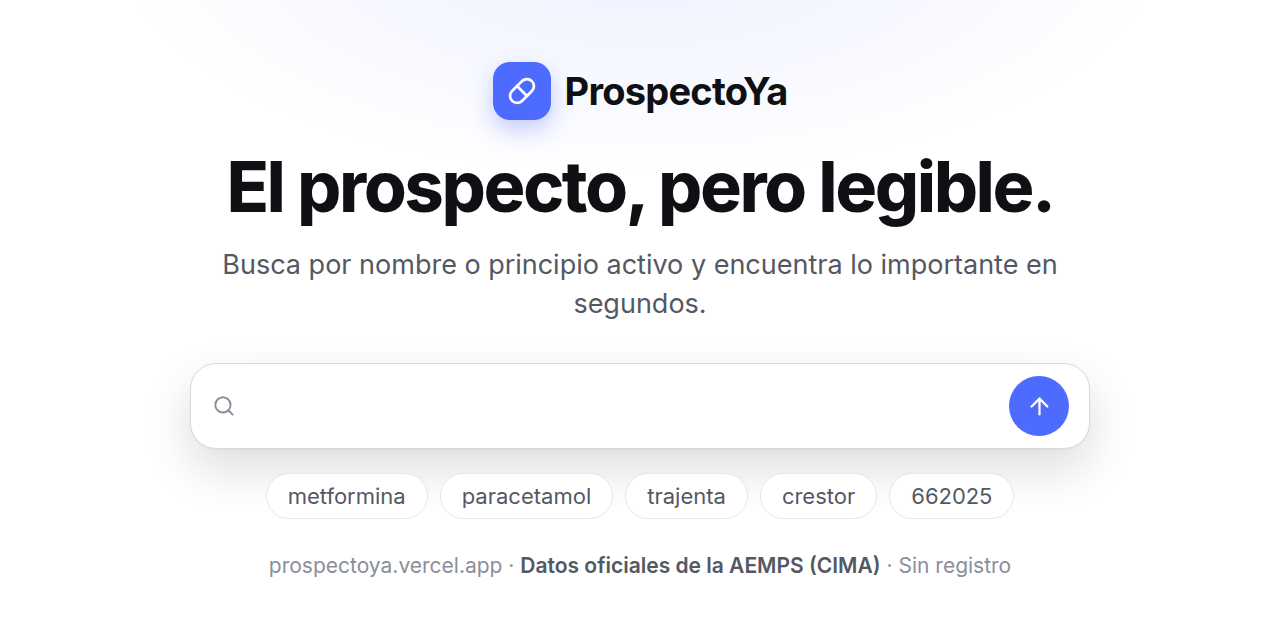
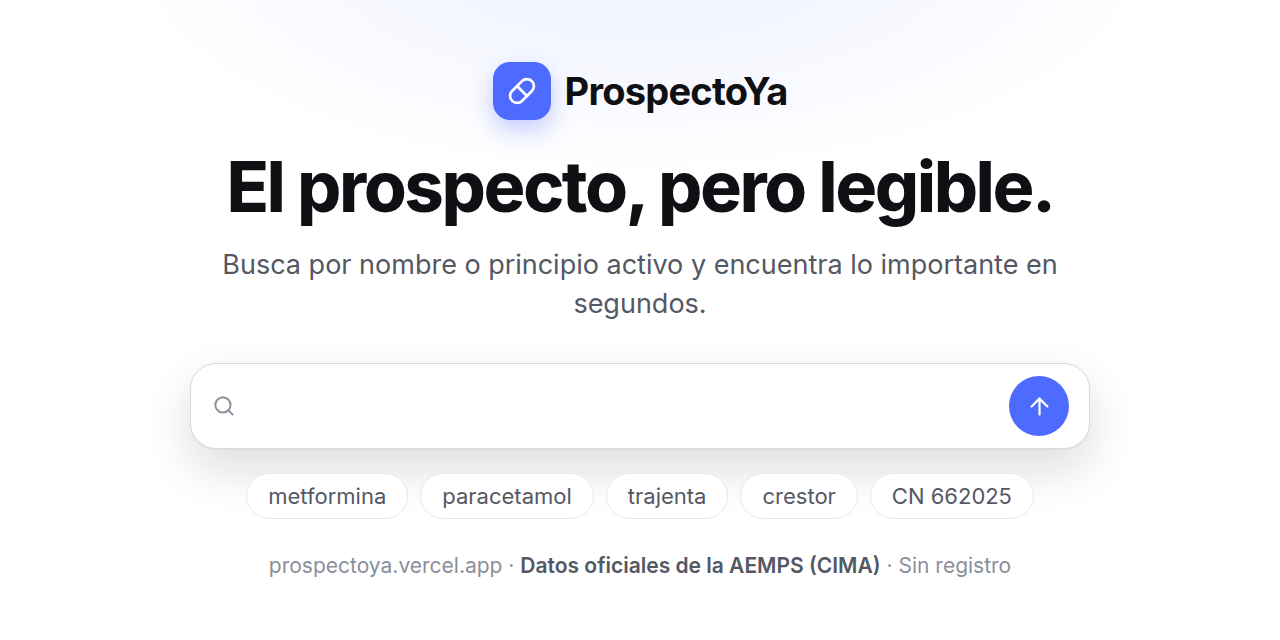
feat(buscador): el chip del código nacional lleva el prefijo «CN»
Visto junto a los demás chips de ejemplo (nombres de medicamento), el número
suelto (662025) se leía como un resto de placeholder más que como un ejemplo
de búsqueda. Ahora el chip muestra "CN 662025"; data-ejemplo se queda igual
(solo los dígitos, que es lo que de verdad busca consultarSegunTermino()), así
que el comportamiento no cambia, solo la etiqueta. Revisa la decisión de
v0.5.0 ("el chip... enseña sólo el número").

Se rehacen social-preview.png y captura-inicio.png con el chip nuevo, y sube
VERSION en sw.js (v11 -> v12) porque index.html y styles.css (el commit
anterior, del halo) tocan la cáscara. test-html.js se ajusta: la comparación
de chips entre index.html y la maqueta del social preview pasa a comparar el
texto visible (antes comparaba data-ejemplo, que ahora difiere a propósito
para este chip), y se añade un caso que fija que data-ejemplo sigue siendo
solo el número.

Suite completa en verde (332 comprobaciones).

diff --git a/tests/test-html.js b/tests/test-html.js
@@ -102,9 +102,14 @@ console.log("--- index.html (campo de búsqueda y ejemplos) ---");
     valores.join(",")
   );
   comprobar(
-    "el ejemplo del código nacional es el número a secas (sin «CN»)",
-    (ejemplos[4] ? ejemplos[4].textContent.trim() : "") === "662025",
+    "el ejemplo del código nacional lleva el prefijo «CN» delante del número",
+    (ejemplos[4] ? ejemplos[4].textContent.trim() : "") === "CN 662025",
     ejemplos[4] ? ejemplos[4].textContent.trim() : "(no está)"
+  );
+  comprobar(
+    "pero data-ejemplo se queda solo con los dígitos (lo que de verdad se busca)",
+    ejemplos[4] && ejemplos[4].dataset.ejemplo === "662025",
+    ejemplos[4] ? ejemplos[4].dataset.ejemplo : "(no está)"
   );
   comprobar("la ayuda sigue accesible desde el buscador (barra de arriba)", Boolean(doc.querySelector('.topbar a[href="ayuda.html"]')));
   // El buscador va sin pie a propósito (interfaz limpia): el aviso sanitario está
@@ -143,7 +148,10 @@ console.log("--- social preview (tarjeta 1280x640) ---");
   const maqueta = new JSDOM(leer("tests/maqueta-social-preview.html")).window.document;
   const png = tamanoPng(path.join(RAIZ, "social-preview.png"));
   const texto = (doc, selector) => ((doc.querySelector(selector) || {}).textContent || "").replace(/\s+/g, " ").trim();
-  const chipsPagina = [...pagina.querySelectorAll("#search-examples .js-ejemplo")].map((b) => b.dataset.ejemplo).join(",");
+  // El texto que se VE (no data-ejemplo, que es el valor que se busca: para el
+  // chip del código nacional ya no coinciden a propósito, ver «lleva el
+  // prefijo "CN"» más arriba).
+  const chipsPagina = [...pagina.querySelectorAll("#search-examples .js-ejemplo")].map((b) => b.textContent.trim()).join(",");
   const chipsMaqueta = [...maqueta.querySelectorAll(".chips li")].map((li) => li.textContent.trim()).join(",");
 
   comprobar(

diff --git a/index.html b/index.html
@@ -167,11 +167,14 @@
         <button type="button" class="chip js-ejemplo" data-ejemplo="trajenta">trajenta</button>
         <button type="button" class="chip js-ejemplo" data-ejemplo="crestor">crestor</button>
         <!-- Ejemplo de búsqueda por código nacional (6 dígitos): el chip lleva el
-             número a secas (la ayuda explica que es un CN).
+             prefijo «CN» delante del número para no confundirse con los demás
+             chips (data-ejemplo se queda solo con los dígitos: es lo que se
+             busca, y un «CN 662025» ahí no encajaría con el código nacional
+             de 6 dígitos que espera consultarSegunTermino()).
              VERIFICADO CONTRA LA API REAL (20/09/2026): los cinco ejemplos
              devuelven resultados (metformina 181, paracetamol 195, trajenta 1,
              crestor 18 y el CN 662025, 1 envase). -->
-        <button type="button" class="chip js-ejemplo" data-ejemplo="662025">662025</button>
+        <button type="button" class="chip js-ejemplo" data-ejemplo="662025">CN 662025</button>
       </div>
     </section>
 

diff --git a/ayuda.html b/ayuda.html
@@ -111,7 +111,7 @@
       <p>
         Escribe en el buscador y pulsa <kbd class="kbd">Enter</kbd> (o el botón de la flecha).
         También puedes tocar cualquiera de los ejemplos de debajo, como <em>paracetamol</em>
-        o <em>662025</em> (que es un código nacional).
+        o <em>CN 662025</em> (que es un código nacional).
       </p>
 
       <h3>Por nombre o principio activo</h3>

diff --git a/tests/maqueta-social-preview.html b/tests/maqueta-social-preview.html
@@ -199,7 +199,7 @@
       <li>paracetamol</li>
       <li>trajenta</li>
       <li>crestor</li>
-      <li>662025</li>
+      <li>CN 662025</li>
     </ul>
 
     <p class="cierre">prospectoya.vercel.app · <strong>Datos oficiales de la AEMPS (CIMA)</strong> · Sin registro</p>

diff --git a/sw.js b/sw.js
@@ -22,7 +22,7 @@
  * anteriores.
  */
 
-const VERSION = "v11";
+const VERSION = "v12";
 const CACHE = `prospectoya-${VERSION}`;
 
 /** La cáscara: todo lo que hace falta para abrir la web sin conexión. */

diff --git a/README.md b/README.md
@@ -2,7 +2,7 @@
 
 <!-- Captura del sitio real (1200x798). Va en la raíz del repo, con ruta
      relativa, para que se vea también al clonar o hacer fork. -->
-<img width="1200" height="798" alt="Pantalla de inicio de ProspectoYa: el buscador con el titular «El prospecto, pero legible» y los chips de ejemplo (metformina, paracetamol, trajenta, crestor, 662025)" src="captura-inicio.png">
+<img width="1200" height="798" alt="Pantalla de inicio de ProspectoYa: el buscador con el titular «El prospecto, pero legible» y los chips de ejemplo (metformina, paracetamol, trajenta, crestor, CN 662025)" src="captura-inicio.png">
 
 Web estática (HTML/CSS/JS vanilla, sin frameworks, sin build) que consulta
 la API pública de CIMA (AEMPS) para mejorar la experiencia de buscar y leer
@@ -58,8 +58,10 @@ Documentación oficial completa (PDF): `CIMA-REST-API_1_19.pdf` (AEMPS).
 - **El campo no lleva texto dentro** (sin placeholder, a propósito): se explica
   con la lupa de la izquierda y con su etiqueta accesible, así que no hace falta
   —y en el móvil se cortaba a medias—. Los cinco chips de ejemplo son
-  *metformina*, *paracetamol*, *trajenta*, *crestor* y *662025* (el código
-  nacional, con el número a secas); los cinco devuelven resultados en la API.
+  *metformina*, *paracetamol*, *trajenta*, *crestor* y *CN 662025* (el prefijo
+  identifica el código nacional dentro del propio chip; `data-ejemplo` se
+  queda solo con los dígitos, que es lo que de verdad se busca); los cinco
+  devuelven resultados en la API.
 - Al escribir 3 letras o más se consulta `GET /medicamentos` con un *debounce*
   de 300 ms y se pinta el desplegable `#search-suggestions` (máx.
   `MAX_SUGERENCIAS` = 8). Con menos de 3 letras el desplegable se oculta.
@@ -394,7 +396,7 @@ Chrome/Chromium (Node las demás no necesitan nada instalado):
 ```bash
 cd tests
 npm install          # jsdom (única dependencia, sólo de desarrollo)
-npm test             # 331 comprobaciones: estructura, buscador, móvil, botón de subir, páginas, resoluciones, PWA, iconos y z-index
+npm test             # 332 comprobaciones: estructura, buscador, móvil, botón de subir, páginas, resoluciones, PWA, iconos y z-index
 npm run test:api-real   # contra la API real de CIMA (necesita red)
 ```
 

diff --git a/CHANGELOG.md b/CHANGELOG.md
@@ -37,6 +37,18 @@ y `Eliminado` (solo los que apliquen).
 
 ### Cambiado
 
+- **El chip del código nacional lleva ahora el prefijo «CN» delante del
+  número** (`CN 662025` en vez de `662025` a secas): visto junto a los demás
+  chips (nombres de medicamento), un número suelto se leía como un resto de
+  placeholder más que como un ejemplo de búsqueda. `data-ejemplo` se queda
+  igual (solo los dígitos: es lo que de verdad se busca), así que el
+  comportamiento no cambia, solo la etiqueta. Revisa la decisión de `v0.5.0`
+  ("el chip... enseña sólo el número"). Se ha rehecho `social-preview.png`
+  (usa el mismo chip) y `captura-inicio.png`. `test-html.js` se ajusta: compara
+  el texto visible de los chips (no `data-ejemplo`, que ahora difiere a
+  propósito para este chip) contra la maqueta del social preview. Junto con el
+  arreglo del halo de arriba, `index.html` y `styles.css` (los dos, cáscara)
+  cambian en esta tanda, así que `VERSION` sube en `sw.js` (`v11` → `v12`).
 - **Corrección sobre la paginación real de CIMA** (README): se daba por hecho
   que `/medicamentos` y `/presentaciones` ignoraban `pagina` y `tamanioPagina`.
   Verificado hoy contra la API real: **`pagina` sí pagina de verdad**
